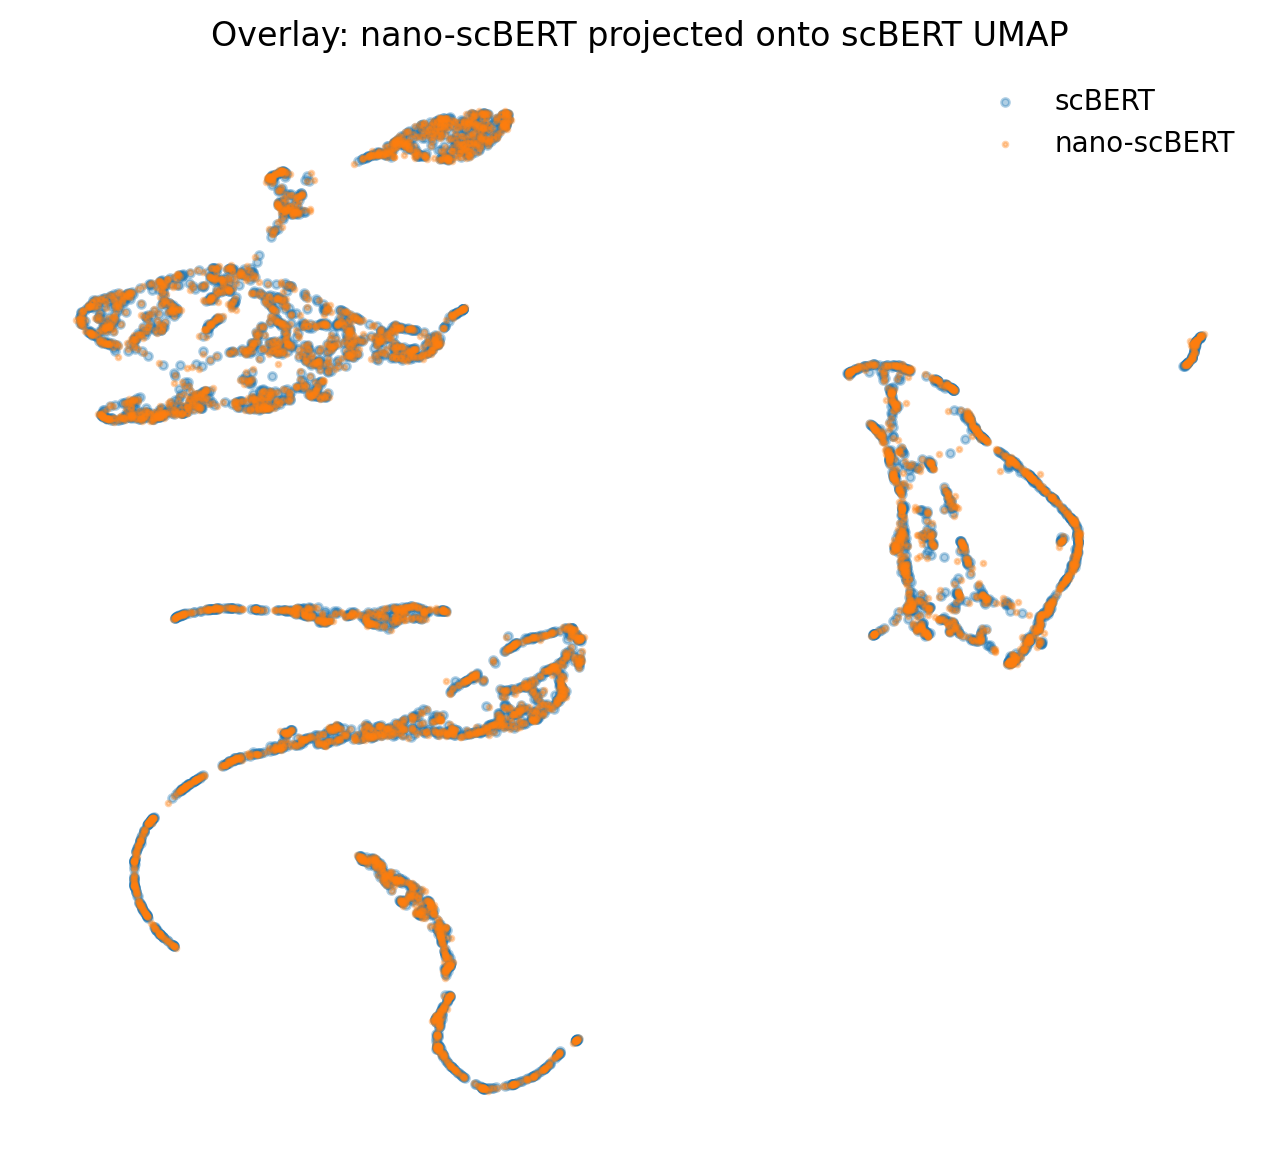
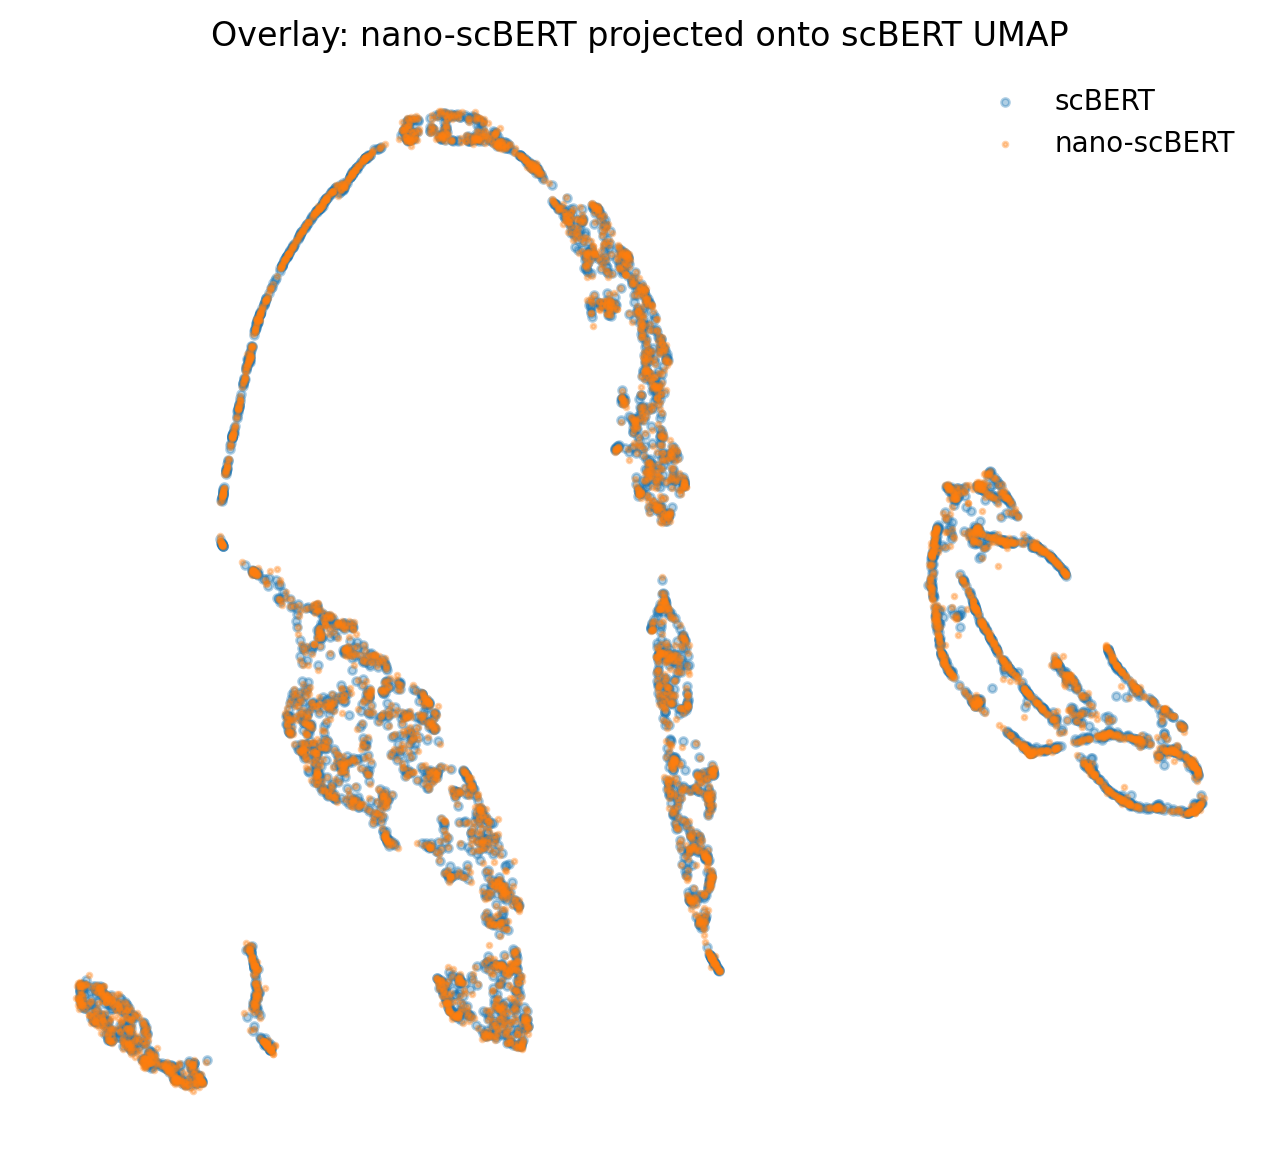
optimize codes

diff --git a/model.py b/model.py
@@ -1,4 +1,3 @@
-#fused QKV + inference_mode + AMP + torch.compile + fix linear_attn
 from __future__ import annotations
 
 import math
@@ -10,6 +9,7 @@ import numpy as np
 import torch
 from torch import nn
 
+from scBERT_tokenizer import get_pretrained
 
 def exists(x):
     return x is not None
@@ -150,7 +150,7 @@ def linear_attention(q, k, v, eps=1e-6):
     return out
 
 
-class FastAttention(nn.Module):
+class PerformerAttention(nn.Module):
     def __init__(
         self,
         dim_heads,
@@ -277,7 +277,7 @@ class SelfAttention(nn.Module):
         dim_head = default(dim_head, dim // heads)
         inner_dim = dim_head * heads
 
-        self.fast_attention = FastAttention(
+        self.fast_attention = PerformerAttention(
             dim_head,
             nb_features,
             causal=causal,
@@ -482,7 +482,7 @@ class Performer(nn.Module):
         ):
             device = get_module_device(self)
 
-            for fast_attention in find_modules(self, FastAttention):
+            for fast_attention in find_modules(self, PerformerAttention):
                 fast_attention.redraw_projection_matrix(device)
 
             self.calls_since_last_redraw.zero_()
@@ -578,8 +578,6 @@ class PerformerLM(nn.Module):
         self.to_out = nn.Linear(dim, num_tokens) if not tie_embed else None
 
     def optimize_for_inference(self, compile_model: bool = True):
-        self.eval()
-    
         for p in self.parameters():
             p.requires_grad_(False)
     
@@ -633,9 +631,6 @@ class PerformerLM(nn.Module):
         compile_model: bool = False,
         verbose: bool = False,
     ):
-        was_training = self.training
-        self.eval()
-    
         if device is None:
             device = next(self.parameters()).device
         else:
@@ -679,9 +674,6 @@ class PerformerLM(nn.Module):
     
         out = torch.cat(outs, dim=0)
     
-        if was_training:
-            self.train()
-    
         return out
 
     @classmethod
@@ -694,19 +686,35 @@ class PerformerLM(nn.Module):
         **kwargs,
     ):
         model = cls(**kwargs)
-
+    
         ckpt = torch.load(str(checkpoint_path), map_location=map_location)
         state = ckpt["model_state_dict"] if "model_state_dict" in ckpt else ckpt
         state = _strip_module_prefix(state)
-
+    
         missing, unexpected = model.load_state_dict(state, strict=strict)
-
+    
         if not strict:
             print(f"[nano-scBERT] missing keys: {len(missing)}")
             print(f"[nano-scBERT] unexpected keys: {len(unexpected)}")
+    
+        return model    
 
-        return model
-
+    @classmethod
+    def from_pretrained_name(
+        cls,
+        name: str = "scbert-human-panglao",
+        *,
+        map_location="cpu",
+        strict=True,
+    ):
+        info = get_pretrained(name)
+    
+        return cls.from_pretrained(
+            info["checkpoint"],
+            map_location=map_location,
+            strict=strict,
+            **info["config"],
+        )
 
 def _pool_encodings(h, pool: str):
     if pool == "mean":

diff --git a/scBERT_tokenizer.py b/scBERT_tokenizer.py
@@ -13,7 +13,45 @@ from preprocessing import (
     save_gene_file,
 )
 
-from registry import get_pretrained
+
+# model registry
+PACKAGE_ROOT = Path(__file__).resolve().parent
+
+PRETRAINED_MODELS = {
+    "scbert-human-panglao": {
+        "checkpoint": PACKAGE_ROOT
+        / "assets"
+        / "scbert-human-panglao"
+        / "panglao_pretrain_nano.pth",
+
+        "gene_order": PACKAGE_ROOT
+        / "assets"
+        / "scbert-human-panglao"
+        / "gene_order.txt",
+
+        "config": {
+            "num_tokens": 7,
+            "dim": 200,
+            "depth": 6,
+            "max_seq_len": 16907,
+            "heads": 10,
+            "local_attn_heads": 0,
+            "g2v_position_emb": True,
+        },
+    },
+}
+
+
+def get_pretrained(name: str):
+    if name not in PRETRAINED_MODELS:
+        available = ", ".join(PRETRAINED_MODELS.keys())
+        raise ValueError(
+            f"Unknown model '{name}'. "
+            f"Available: {available}"
+        )
+
+    return PRETRAINED_MODELS[name]
+
 
 
 class scBERTTokenizer:

diff --git a/tasks/embedding.py b/tasks/embedding.py
@@ -7,8 +7,7 @@ import torch
 
 from .model import PerformerLM
 from .preprocessing import preprocess_adata
-from .registry import get_pretrained
-from .scBERT_tokenizer import scBERTTokenizer
+from .scBERT_tokenizer import scBERTTokenizer, get_pretrained
 
 
 @torch.no_grad()
@@ -113,6 +112,7 @@ def main(argv=None):
 
     x = torch.from_numpy(tokens).long()
 
+    #Load model
     print("Loading nano-scBERT...")
 
     model = PerformerLM.from_pretrained(
@@ -121,6 +121,9 @@ def main(argv=None):
         **info["config"],
     ).to(device)
 
+    # switch model to eval to turn of dropout
+    model.eval()
+
     fix_performer_projection_matrices(
         model,
         seed=0,
@@ -128,11 +131,6 @@ def main(argv=None):
 
     model = model.optimize_for_inference(
         compile_model=use_compile,
-    )
-
-    print(
-        f"use_amp={use_amp}, "
-        f"use_compile={use_compile}"
     )
 
     with torch.inference_mode():

diff --git a/README.md b/README.md
@@ -36,29 +36,31 @@ If you know of another single-cell foundation model that should be included, fee
 I carefully benchmarked nano-scBERT across different settings to give future users confidence in adopting nano-scBERT as a drop-in alternative to the official implementation. Full benchmark details are available in [benchmark_scbert_vs_nano.ipynb](benchmark_scbert_vs_nano.ipynb).
 
 #### Inference Runtime
-nano-scBERT achieves roughly **2.5× faster inference** than the original implementation.
+nano-scBERT achieves approximately **2.5× faster inference** while reducing **peak GPU memory by 7.5%** compared to the original scBERT implementation.
 
-| Model      | Total (4,146 cells) | Per cell | Throughput  | Speedup |
-| ---------- | -------------------- | -------- | ----------- | ------- |
-| nano-scBERT | **53.71 s**         | **12.955 ms**  | **77.19 cells/s** | **2.5×**   |
-| scBERT      | 132.64 s            | 31.992 ms| 31.25 cells/s | 1.00×   |
+| Model           | Total (4,146 cells) |      Per cell |        Throughput |      Peak GPU | % Reduced Peak GPU |   Speedup |
+| --------------- | ------------------: | ------------: | ----------------: | ------------: | -----------------: | --------: |
+| **nano-scBERT** |         **73.07 s** | **16.838 ms** | **59.39 cells/s** | **18.255 GB** |           **7.5%** | **2.46×** |
+| scBERT          |            173.17 s |     41.480 ms |     24.11 cells/s |     19.726 GB |                  — |     1.00× |
+
 
 #### Cell-level Embedding Reproducibility
 nano-scBERT reproduces the original scBERT embedding space almost exactly, preserving both local and global structure.
 
 ![figure2](assets/umap_overlay_nano_scbert_vs_scbert.png)
 
-| Metric | Value |
-|----------|----------:|
-| Mean cosine similarity | **1.0000** |
-| Median cosine similarity | **1.0000** |
+| Metric                    |         Value |
+| ------------------------- | ------------: |
+| Mean cosine similarity    |    **1.0000** |
+| Median cosine similarity  |    **1.0000** |
 | Minimum cosine similarity | **0.9999998** |
-| Mean absolute difference | **2.74e-06** |
-| Distance correlation | **0.9999998** |
+| Mean absolute difference  |  **2.68e-06** |
+| Distance correlation      | **0.9999999** |
+
 
 The PCA spectrum and pairwise distance structure are nearly identical between nano-scBERT and the original implementation.
 
-> Benchmarked on a single NVIDIA A100 (80 GB) GPU with batch size 64 on the Pancreas dataset (4,146 cells).
+> Benchmarked on a single NVIDIA A100 (80 GB) GPU with batch size 32 on the Pancreas dataset (4,146 cells).
 
 ## Install
 ```bash
@@ -71,7 +73,50 @@ pip install -r requirements.txt
 ## Quick Start
 
 ### Using nano-scBERT in Python
-TBD...
+#### Generate Cell Embeddings from Raw-count `.h5ad`
+```python
+import torch
+import scanpy as sc
+
+from scBERT_tokenizer import scBERTTokenizer, get_pretrained
+from preprocessing import preprocess_adata
+from model import PerformerLM
+
+# Select GPU if available; otherwise fall back to CPU.
+device = torch.device("cuda" if torch.cuda.is_available() else "cpu")
+
+# Choose the supported pretrained nano-scBERT checkpoint.
+# Available options:
+#   - scbert-human-panglao
+model_name = "scbert-human-panglao"
+model = PerformerLM.from_pretrained_name(model_name).to(device) # Load the pretrained model.
+model.eval() # Switch to inference mode (disable dropout).
+
+# Optional: compile the model for faster inference and lower peak GPU memory.
+if device.type == "cuda":
+    model = torch.compile(model)
+
+# Load raw-count .h5ad.
+adata = sc.read_h5ad("./pancreas.h5ad")
+
+# Preprocess and tokenize the input cells.
+tokenizer = scBERTTokenizer.from_pretrained(model_name)
+
+adata = preprocess_adata(
+    adata,
+    tokenizer.genes,
+)
+
+tokens = tokenizer.encode_adata(adata)
+x = torch.from_numpy(tokens).long()
+
+# Run nano-scBERT.
+# Returns a tensor of shape (n_cells, hidden_size).
+embs = model.encode(
+    x,
+    batch_size=64,  # Increase if GPU memory allows.
+)
+```
 
 ### Using nano-scBERT from the Terminal
 #### Generate Cell Embeddings from Raw-count `.h5ad`
@@ -79,14 +124,18 @@ TBD...
 python tasks/embedding.py \
     --input data/pancreas.h5ad \
     --output outputs/nano_scbert_embeddings.npy \
+    --model scbert-human-panglao \
+    --batch_size 32 \
     --mode raw
 ```
 
-#### Generate Cell Embeddings from scBERT-preprocessed `.h5ad`
+#### Generate Cell Embeddings from scBERT-styled preprocessed `.h5ad`
 ```sh
 python tasks/embedding.py \
     --input data/pancreas_scbert_preprocessed.h5ad \
     --output outputs/nano_scbert_embeddings.npy \
+    --model scbert-human-panglao \
+    --batch_size 32 \
     --mode preprocessed
 ```
 